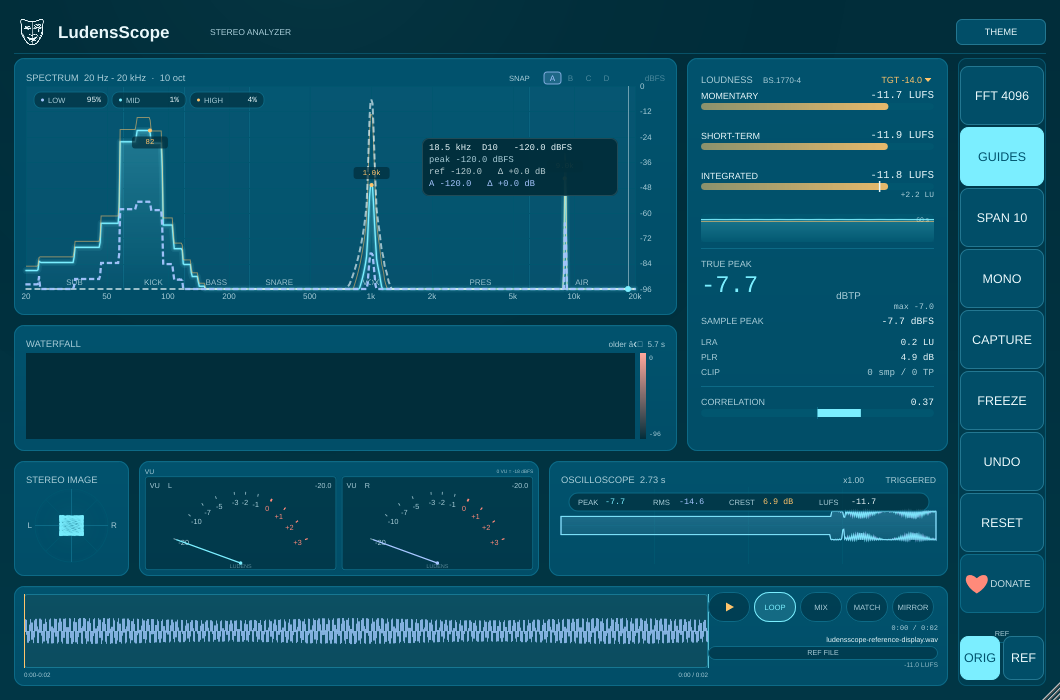
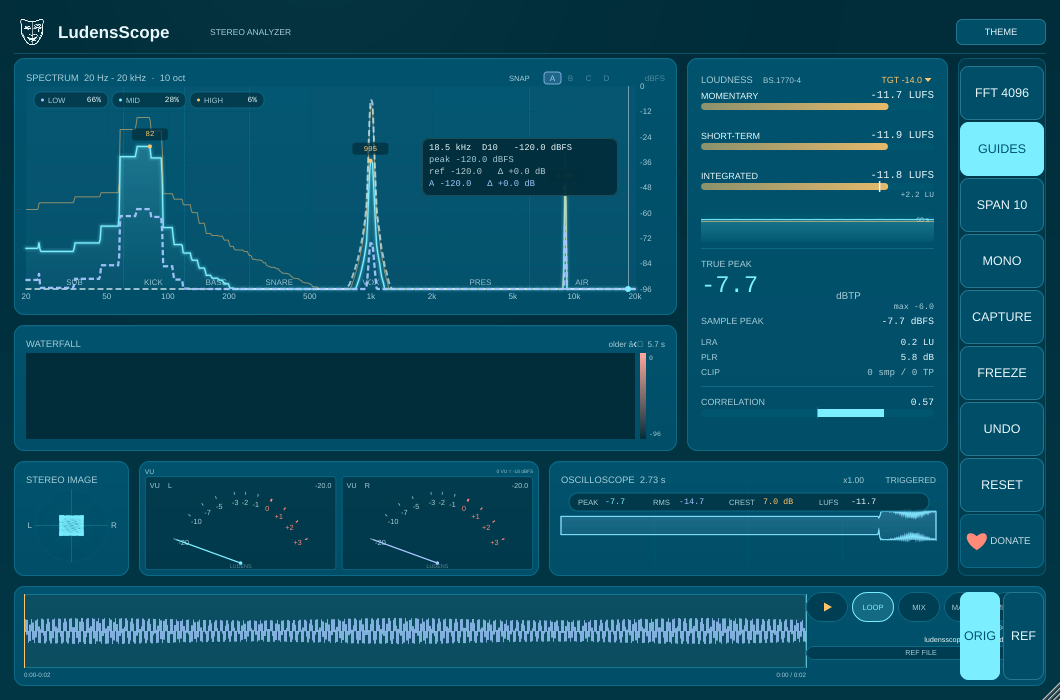
ui: ORIG/REF share the reference waveform strip's height
- the two source buttons moved out of the rail's button stack and now
  sit in the same vertical band as the bottom reference waveform,
  spanning its full height at the far right
- the nine rail buttons use the rail height above the strip again
- tests 3/3; snapshot regenerated

diff --git a/Source/PluginEditor.cpp b/Source/PluginEditor.cpp
@@ -477,17 +477,19 @@ void LudensScopeEditor::resized()
                                .withSizeKeepingCentre (themeWidth, themeHeight));
     r.removeFromTop (8);
 
+    const int gap = juce::roundToInt (10.0f * uiScale);
+    const int stripHeight = juce::jlimit (80, 120, juce::roundToInt (100.0f * uiScale));
+    auto stripBounds = r.removeFromBottom (stripHeight);
+    referenceStrip.setBounds (stripBounds);
+    r.removeFromBottom (gap);
+
     const int railWidth = juce::roundToInt (88.0f * uiScale);
     railBounds = r.removeFromRight (railWidth);
     r.removeFromRight (juce::roundToInt (10.0f * uiScale));
 
     auto rail = railBounds.withTrimmedLeft (2).withTrimmedRight (2)
                           .withTrimmedTop (juce::roundToInt (8.0f * uiScale));
-    const int refRowHeight = juce::roundToInt (44.0f * uiScale);
-    const int refMargin = juce::roundToInt (6.0f * uiScale);
-    const int refCaption = juce::roundToInt (15.0f * uiScale);
-    const int refTop = railBounds.getBottom() - refMargin - refRowHeight - refCaption;
-    const int available = juce::jmax (0, refTop - rail.getY());
+    const int available = juce::jmax (0, rail.getHeight());
     const int buttonGap = juce::roundToInt (2.0f * uiScale);
     const int buttonHeight = juce::jmax (juce::roundToInt (22.0f * uiScale),
                                          (available - buttonGap * 8) / 9);
@@ -506,19 +508,15 @@ void LudensScopeEditor::resized()
         stack.removeFromTop (buttonGap);
     }
 
+    // ORIG/REF share the vertical band of the reference waveform strip.
     auto sourceRow = juce::Rectangle<int> (railBounds.getX() + juce::roundToInt (2.0f * uiScale),
-                                           railBounds.getBottom() - refMargin - refRowHeight,
+                                           stripBounds.getY() + juce::roundToInt (6.0f * uiScale),
                                            railBounds.getWidth() - juce::roundToInt (4.0f * uiScale),
-                                           refRowHeight);
+                                           stripHeight - juce::roundToInt (12.0f * uiScale));
     const int sourceGap = juce::roundToInt (3.0f * uiScale);
     origButton.setBounds (sourceRow.removeFromLeft ((sourceRow.getWidth() - sourceGap) / 2));
     sourceRow.removeFromLeft (sourceGap);
     refButton.setBounds (sourceRow);
-
-    const int gap = juce::roundToInt (10.0f * uiScale);
-    const int stripHeight = juce::jlimit (80, 120, juce::roundToInt (100.0f * uiScale));
-    referenceStrip.setBounds (r.removeFromBottom (stripHeight));
-    r.removeFromBottom (gap);
 
     const int bottomHeight = juce::jlimit (115, 160, (int) ((float) r.getHeight() * 0.22f));
     auto bottom = r.removeFromBottom (bottomHeight);
